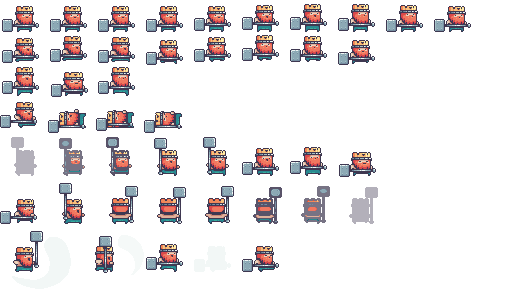
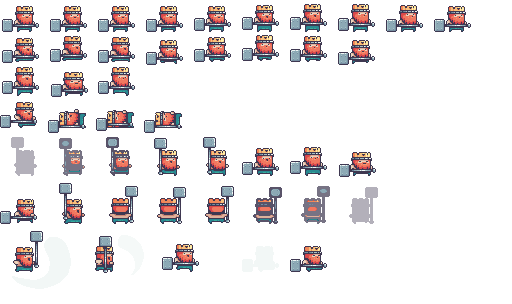
Player animations

Changed region(s): [[0.4688, 0.7993, 0.6562, 0.9178], [0.2812, 0.7993, 0.4062, 0.8882]]

diff --git a/src/player.js b/src/player.js
@@ -66,6 +66,71 @@ const sprite = {
 
         speed: 5,
     },
+	attack: {
+		x: 0,
+		y: 224,
+		w: 80,
+		h: 65,
+
+		offsetX: 10,
+        offsetY: 20,
+
+		frames: 3,
+
+		speed: 8,
+	},
+	dead: {
+		x: 0,
+		y: 96,
+		w: 48,
+		h: 32,
+
+		offsetX: 10,
+		offsetY: 7,
+
+		frames: 4,
+
+		speed: 15,
+	},
+	hit: {
+		x: 240,
+		y: 240,
+		w: 48,
+        h: 32,
+
+        offsetX: 10,
+        offsetY: 7,
+
+        frames: 2,
+
+        speed: 8,
+	},
+	dead_floor: {
+		x: 144,
+		y: 96,
+		w: 48,
+		h: 32,
+
+		offsetX: 10,
+		offsetY: 7,
+
+		frames: 1,
+
+		speed: 0,
+	},
+	door_in: {
+		x: 0,
+		y: 176,
+		w: 48,
+		h: 48,
+
+		offsetX: 10,
+		offsetY: 25,
+
+		frames: 8,
+
+		speed: 8,
+	}
 }
 
 export class Player extends Entity {
@@ -89,6 +154,8 @@ export class Player extends Entity {
 		this.lastMovement = null
 
 		this.direction = 'right'
+
+		this.animation = null
 	}
 
 	movements(controls) {
@@ -126,7 +193,7 @@ export class Player extends Entity {
 		const isFalling = this.vy > 0
 		const isFall = this.status === 'falling' && this.vy === 0
 		
-		let status = ''
+		let status = 'idle'
 
 		if (isRunning) {
 			status = 'run'
@@ -135,15 +202,16 @@ export class Player extends Entity {
 		} else if (isFalling) {
 			status = 'falling'
 		} else if (isFall) {
-			status = 'fall'
-		} else {
-			status = 'idle'
+			this.falldownAnimation()
+		}
+
+		if (this.animation) {
+			status = this.animation
 		}
 
 		if (this.status !== status) {
 			this.status = status
 
-			this.frame = 0
 			this.frames.current = 0
         	this.frames.elapsed = 0
         	this.frames.max = sprite[this.status].frames
@@ -173,5 +241,55 @@ export class Player extends Entity {
 				}
 			}
 		}
+	}
+
+	attackAnimation() {
+		this.animation = 'attack'
+		const ms = sprite.attack.frames * sprite.attack.speed * 1000 / 60 - sprite.attack.speed
+
+		setTimeout(() => {
+			this.animation = null
+		}, ms)
+	}
+
+	hitAnimation() {
+		this.animation = 'hit'
+		const ms = sprite.hit.frames * sprite.hit.speed * 1000 / 60 - sprite.hit.speed
+
+		setTimeout(() => {
+			this.animation = null
+		}, ms)
+	}
+
+	falldownAnimation() {
+		this.animation = 'fall'
+		const ms = 150
+
+		setTimeout(() => {
+			this.animation = null
+		}, ms)
+	}
+
+	deadAnimation() {
+		this.animation = 'dead'
+
+		const ms = sprite.dead.frames * sprite.dead.speed * 1000 / 60 - sprite.dead.speed
+
+		setTimeout(() => {
+			this.animation = 'dead_floor'
+		}, ms)
+	}
+
+	doorInAnimation() {
+		return new Promise (resolve => {
+			this.animation = 'door_in'
+			const ms = sprite.door_in.frames * sprite.door_in.speed * 1000 / 60 - sprite.door_in.speed
+	
+			setTimeout(() => {
+				this.animation = null
+
+				resolve()
+			}, ms)
+		})
 	}
 }

diff --git a/src/game.js b/src/game.js
@@ -25,6 +25,13 @@ export class Game {
     start() {
         this.controls.start()
 
+        document.addEventListener('keydown', e => {
+            if (['KeyE', 'Enter'].includes(e.code)) {
+                this.player.attackAnimation()
+				e.preventDefault()
+			}
+        })
+
         if (this.pointInCenter) {
             const div = document.createElement('div')
             div.style = `
@@ -44,7 +51,9 @@ export class Game {
             if (controls.direction.up) {
                 console.log('Next level')
 
-                LevelLoader.get('2').then(this.#loadData.bind(this))
+                this.player.doorInAnimation().then(() => {
+                    LevelLoader.get('2').then(this.#loadData.bind(this))
+                })
             }
 
             controls.direction.up = false
